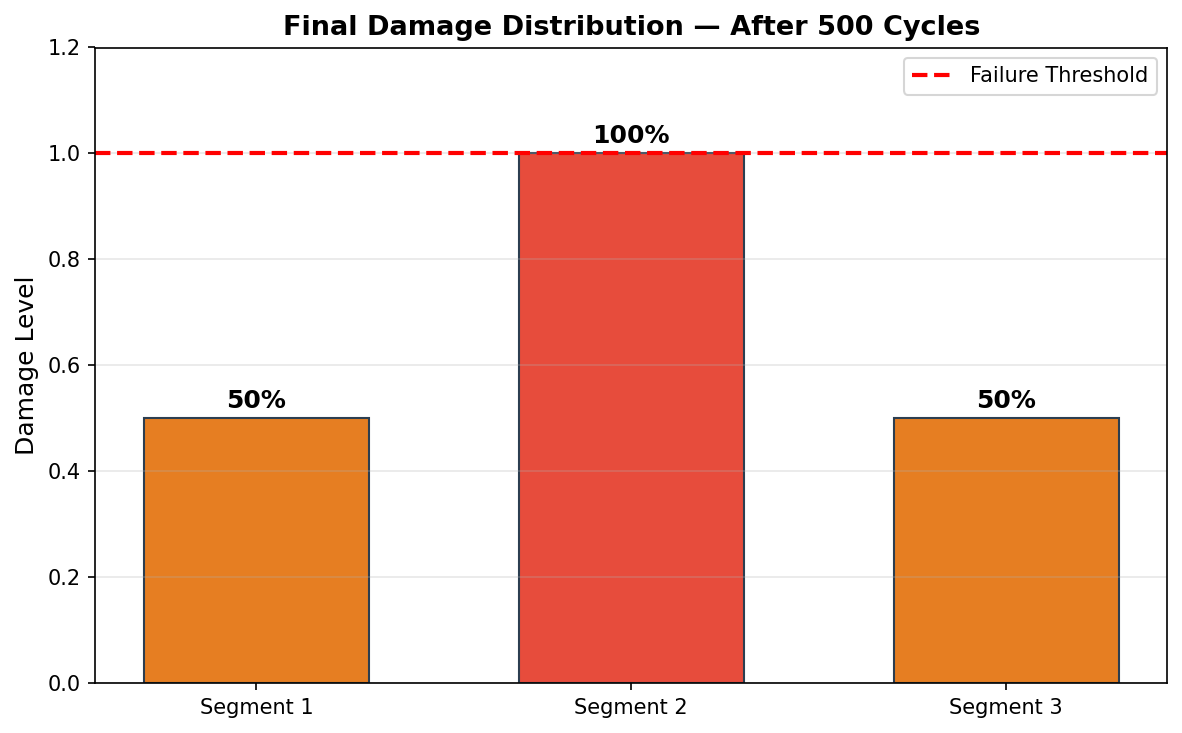
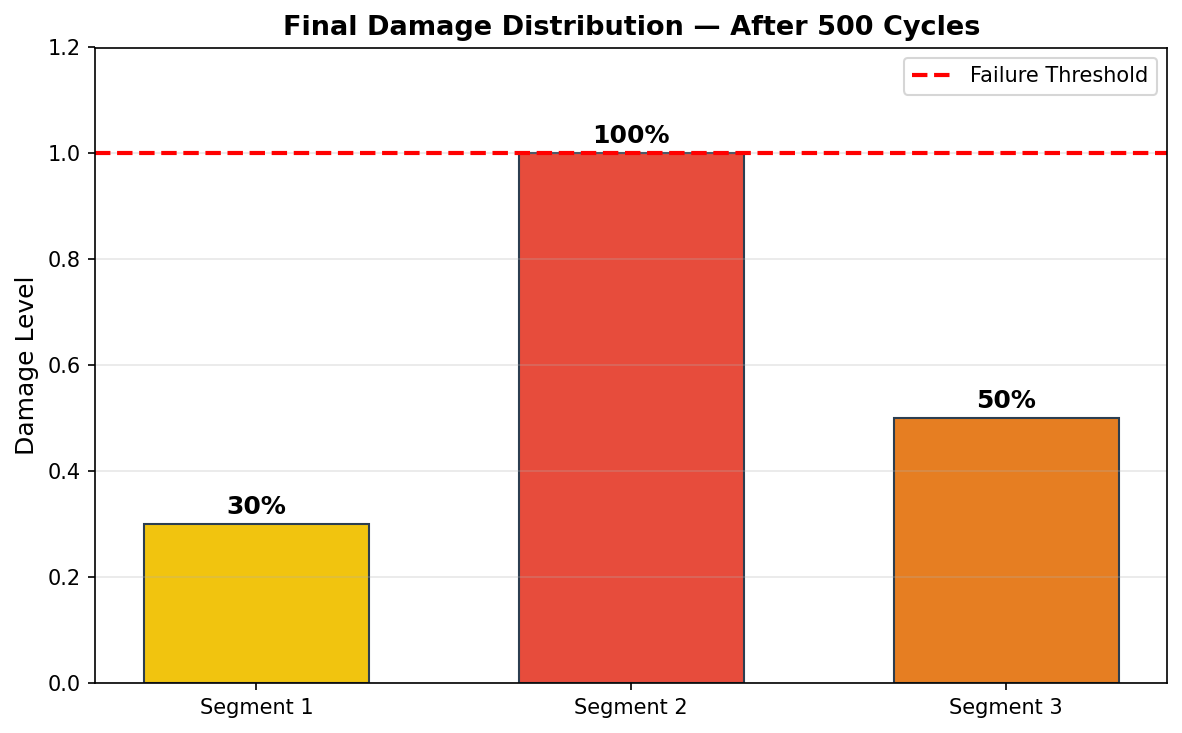
docs: update PROJECT_DOCUMENTATION.md to match latest simulation features
- Updated introduction to reflect enhanced 2D visualization and interactive GUI
- Removed all outdated 3D beam model references
- Added Settings GUI and Retry/Close Dialog to simulation entities
- Updated simulation flow, flowchart, and How to Run sections
- Updated file structure with all current project files
- Updated output variables with detailed 2D visualization components
- Updated resource requirements with tested versions

Changed region(s): [[0.1218, 0.5102, 0.335, 0.9304]]

diff --git a/PROJECT_DOCUMENTATION.md b/PROJECT_DOCUMENTATION.md
@@ -10,7 +10,7 @@ Modeling and Simulation is a computational technique used to represent and analy
 
 Structural fatigue — the progressive weakening of a material subjected to repeated (cyclic) loading — is one of the leading causes of bridge failures. Even when individual load cycles are well below the material's strength, the cumulative effect of many loading cycles can eventually lead to failure.
 
-This project focuses on developing a **Python-based conceptual simulation** of structural fatigue in bridge beams under repeated loading. The simulation uses a **normalized damage accumulation model** to demonstrate the core principles of fatigue. It models a bridge beam divided into 3 segments, applies cyclic damage based on position-dependent factors, tracks damage accumulation at each segment, and presents results through **animated 2D visualization and 3D modeling**.
+This project focuses on developing a **Python-based conceptual simulation** of structural fatigue in bridge beams under repeated loading. The simulation uses a **normalized damage accumulation model** to demonstrate the core principles of fatigue. It models a bridge beam divided into 3 segments, applies cyclic damage based on position-dependent factors, tracks damage accumulation at each segment, and presents results through an **enhanced animated 2D bridge visualization** with real-time damage tracking. The simulation features an **interactive settings GUI** for parameter adjustment, a detailed bridge rendering (with piers, road deck, railings, water level, and a vehicle icon), and a **retry/close dialog** allowing multiple runs with different parameters.
 
 ### Core Formula
 
@@ -27,6 +27,8 @@ This project focuses on developing a **Python-based conceptual simulation** of s
 | **Beam Segments** | 3 portions of the beam where damage is tracked individually |
 | **Load Cycles** | Repeated loading events applied to the beam |
 | **Fatigue Damage State** | The condition (0.0 to 1.0) of each beam segment |
+| **Settings GUI** | Interactive Tkinter window for configuring all simulation parameters |
+| **Retry/Close Dialog** | Post-simulation dialog showing results with option to retry or exit |
 
 ---
 
@@ -52,7 +54,7 @@ This simulation framework aims to:
 1. **Evaluate the fatigue life of a bridge beam** under repeated loading and determine how many cycles it can sustain before structural failure occurs
 2. **Identify the relationship between damage increment and cycles to failure** — specifically, how increasing the damage rate affects the beam's lifespan
 3. **Analyze the spatial distribution of fatigue damage** — determine which beam segments are most vulnerable based on their position (center vs. edges)
-4. **Visualize the progressive degradation process** — provide animated 2D and 3D representations of how a healthy beam transitions through safe, warning, critical, and failed states over time
+4. **Visualize the progressive degradation process** — provide an enhanced animated 2D bridge visualization showing how a healthy beam transitions through safe, warning, critical, and failed states over time, complete with structural details (piers, road deck, railings, water level)
 5. **Demonstrate the cumulative nature of fatigue** — show that individually harmless load cycles can accumulate to cause structural failure
 6. **Enable parameter manipulation** — allow users to change damage increment, failure threshold, and segment factors to observe how different conditions affect fatigue behavior
 7. **Determine the sensitivity of fatigue life to input parameters** — evaluate which parameters have the greatest influence on how long the beam survives
@@ -103,15 +105,18 @@ Default threshold: 1.0
 
 ### 4.5 Simulation Flow
 
-1. Set parameters (damage_increment, failure_threshold, segment_factors)
-2. Initialize 3 beam segments with damage = 0.0
-3. **Loop** through each cycle:
+1. **Display Settings GUI** — user adjusts parameters via Tkinter window (sliders + text fields)
+2. Click "Run Simulation" to start
+3. Initialize 3 beam segments with damage = 0.0
+4. **Loop** through each cycle:
    - `damage += damage_increment * segment_factor` for each segment
    - Check if `damage >= failure_threshold`
    - Record state for visualization
-4. Display animated 2D visualization
-5. Display 3D beam model
+5. Display **enhanced animated 2D bridge visualization** with real-time updates
 6. Save result charts to `results/` folder
+7. Display **Retry/Close dialog** with simulation summary
+   - **Retry**: Returns to Settings GUI for another run
+   - **Close**: Exits the simulation
 
 ---
 
@@ -132,14 +137,14 @@ Default threshold: 1.0
 
 | Output | Description |
 |--------|-------------|
-| Animated 2D visualization | Real-time beam with colored segments, damage gauge, status, chart |
-| 3D beam model | Final-state beam with colored segments and crack effects |
-| Damage distribution | Bar chart of final damage per segment (saved as PNG) |
-| Damage over time | Line plot of damage growth across cycles (saved as PNG) |
+| Enhanced animated 2D visualization | Real-time bridge view with piers, road deck, railings, water level, vehicle icon, colored beam segments, damage gauge, status panel, segment detail panel, and damage-over-time chart |
+| Damage distribution | Bar chart of final damage per segment (saved as `results/damage_distribution.png`) |
+| Damage over time | Line plot of damage growth across cycles (saved as `results/damage_over_time.png`) |
 | Console summary | Cycle-by-cycle text output with final statistics |
 | Cycles to failure | Exact cycle number when first segment reaches threshold |
 | Maximum damage | Highest damage value reached by any segment |
-| Beam status | Overall status: SAFE, WARNING, or FAILED |
+| Beam status | Overall status: SAFE, WARNING, CRITICAL, or FAILED |
+| Retry/Close dialog | Post-simulation summary with option to retry or exit |
 
 ---
 
@@ -165,10 +170,14 @@ The simulation follows this logical flow:
 ```
 START
   |
-Set Parameters (damage_increment, threshold, factors)
-  |
+  v
+Show Settings GUI (Tkinter)
+  |  User adjusts parameters
+  |  Clicks "Run Simulation"
+  v
 Initialize 3 Beam Segments (damage = 0.0 each)
   |
+  v
 +--------------- LOOP ----------------+
 |  For each segment:                  |
 |  damage += damage_increment * factor|
@@ -178,15 +187,24 @@ Initialize 3 Beam Segments (damage = 0.0 each)
 |  |NO --> Loop Back (next cycle)     |
 +-----------+-------------------------+
             |
-   Animated 2D Visualization
+            v
+   Enhanced Animated 2D Bridge Visualization
+   (piers, road, railings, gauge, status, chart)
             |
-   3D Beam Model (Final State)
+            v
+   Save Results (PNG images to results/)
             |
-   Save Results (PNG images)
-            |
+            v
    Print Console Summary
             |
-           END
+            v
+   Show Retry/Close Dialog
+      |               |
+   [Retry]         [Close]
+      |               |
+      v               v
+   Back to         END
+   Settings GUI
 ```
 
 ---
@@ -240,15 +258,15 @@ Initialize 3 Beam Segments (damage = 0.0 each)
   - Damage accumulates linearly and predictably
   - Failure occurs when threshold is reached
 - Entities are well-defined and map to simulation modeling concepts
-- Animation makes the invisible process of fatigue visible
+- Enhanced animated bridge visualization makes the invisible process of fatigue visible and engaging
 
 ### 10.3 Resource Requirements — MINIMAL
 
 | Resource | Requirement |
 |----------|-------------|
-| Python | 3.8+ |
-| NumPy | 1.20+ |
-| Matplotlib | 3.5+ |
+| Python | 3.8+ (tested with 3.14) |
+| NumPy | 1.20+ (tested with 2.4.2) |
+| Matplotlib | 3.5+ (tested with 3.10.8) |
 | Hardware | Any modern PC |
 | Time | < 5 seconds to run |
 
@@ -277,14 +295,19 @@ Initialize 3 Beam Segments (damage = 0.0 each)
 
 ```
 Bridge Simulation/
-+-- simulation.py                # Complete simulation: logic + animated 2D + 3D + saved charts
-+-- results/                     # Output folder for generated images
-|   +-- damage_distribution.png  # Bar chart of final damage per segment
-|   +-- damage_over_time.png     # Line plot of damage growth over cycles
-+-- PROJECT_DOCUMENTATION.md     # This file
-+-- PROPOSAL_DEFENSE_DOCUMENT.md # Full defense proposal
-+-- DEFENSE_DELIVERY_SCRIPT.md   # Slide-by-slide speaking guide
-+-- DEFENSE_CHEAT_SHEET.md       # Printable one-page reference
++-- simulation.py                    # Complete simulation: logic + settings GUI + animated 2D + saved charts + retry dialog
++-- generate_flowchart.py            # Generates a professional 2D flowchart image for the simulation
++-- results/                         # Output folder for generated images
+|   +-- damage_distribution.png      # Bar chart of final damage per segment
+|   +-- damage_over_time.png         # Line plot of damage growth over cycles
+|   +-- simulation_flowchart.png     # Generated flowchart of simulation logic
++-- PROJECT_DOCUMENTATION.md         # This file
++-- MODEL_DESIGN_DOCUMENTATION.md    # Detailed model design documentation
++-- PROPOSAL_DEFENSE_DOCUMENT.md     # Full defense proposal
++-- DEFENSE_DELIVERY_SCRIPT.md       # Slide-by-slide speaking guide
++-- DEFENSE_CHEAT_SHEET.md           # Printable one-page reference
++-- POWERPOINT_SLIDES.md             # PowerPoint slide content guide
++-- .gitignore                       # Git ignore rules
 ```
 
 ---
@@ -300,19 +323,36 @@ python simulation.py
 ```
 
 ### What Happens:
-1. Console prints cycle-by-cycle damage progress
-2. **Animated 2D window opens** — watch damage grow in real-time
-3. Close the animation window -> **3D beam view appears**
-4. Close the 3D window -> **Result images saved to results/**
-5. Final summary printed to console
+1. **Settings GUI window opens** — adjust all parameters using sliders and text fields:
+   - Damage Increment (per cycle)
+   - Failure Threshold
+   - Animation Speed (ms/frame)
+   - Cycles per Frame
+   - Segment Damage Factors (Left, Center, Right)
+2. Click **"Run Simulation"** to start (or **"Reset Defaults"** to restore default values)
+3. Console prints cycle-by-cycle damage progress
+4. **Enhanced animated 2D bridge window opens** — watch damage grow in real-time with:
+   - Detailed bridge structure (support piers, road deck, railings, water level, vehicle icon)
+   - Color-coded beam segments changing from green → yellow → orange → red
+   - Real-time damage gauge, beam status panel, segment detail panel
+   - Live damage-over-time chart
+5. Close the animation window → **Result images saved to `results/`**
+6. Final summary printed to console
+7. **Retry/Close dialog appears** — view summary and choose to:
+   - **Retry**: Go back to Settings GUI with new parameters
+   - **Close**: Exit the simulation
 
-### To Change Parameters:
-Open `simulation.py` and edit the values at the top of the file:
-```python
-damage_increment = 0.002   # Damage per cycle
-failure_threshold = 1.0    # When to fail
-segment_factors = [0.5, 1.0, 0.5]  # Position multipliers
-```
+### Parameters (Configurable via GUI):
+
+| Parameter | Default | Description |
+|-----------|---------|-------------|
+| Damage Increment | 0.002 | Damage added per cycle (slider: 0.0005 – 0.05) |
+| Failure Threshold | 1.0 | Damage level that triggers failure (slider: 0.1 – 5.0) |
+| Animation Speed | 20 ms | Milliseconds between animation frames |
+| Cycles per Frame | 2 | Load cycles advanced per animation frame |
+| Left Segment Factor | 0.5 | Damage multiplier for left segment (0.1 – 2.0) |
+| Center Segment Factor | 1.0 | Damage multiplier for center segment (0.1 – 2.0) |
+| Right Segment Factor | 0.5 | Damage multiplier for right segment (0.1 – 2.0) |
 
 ---
 